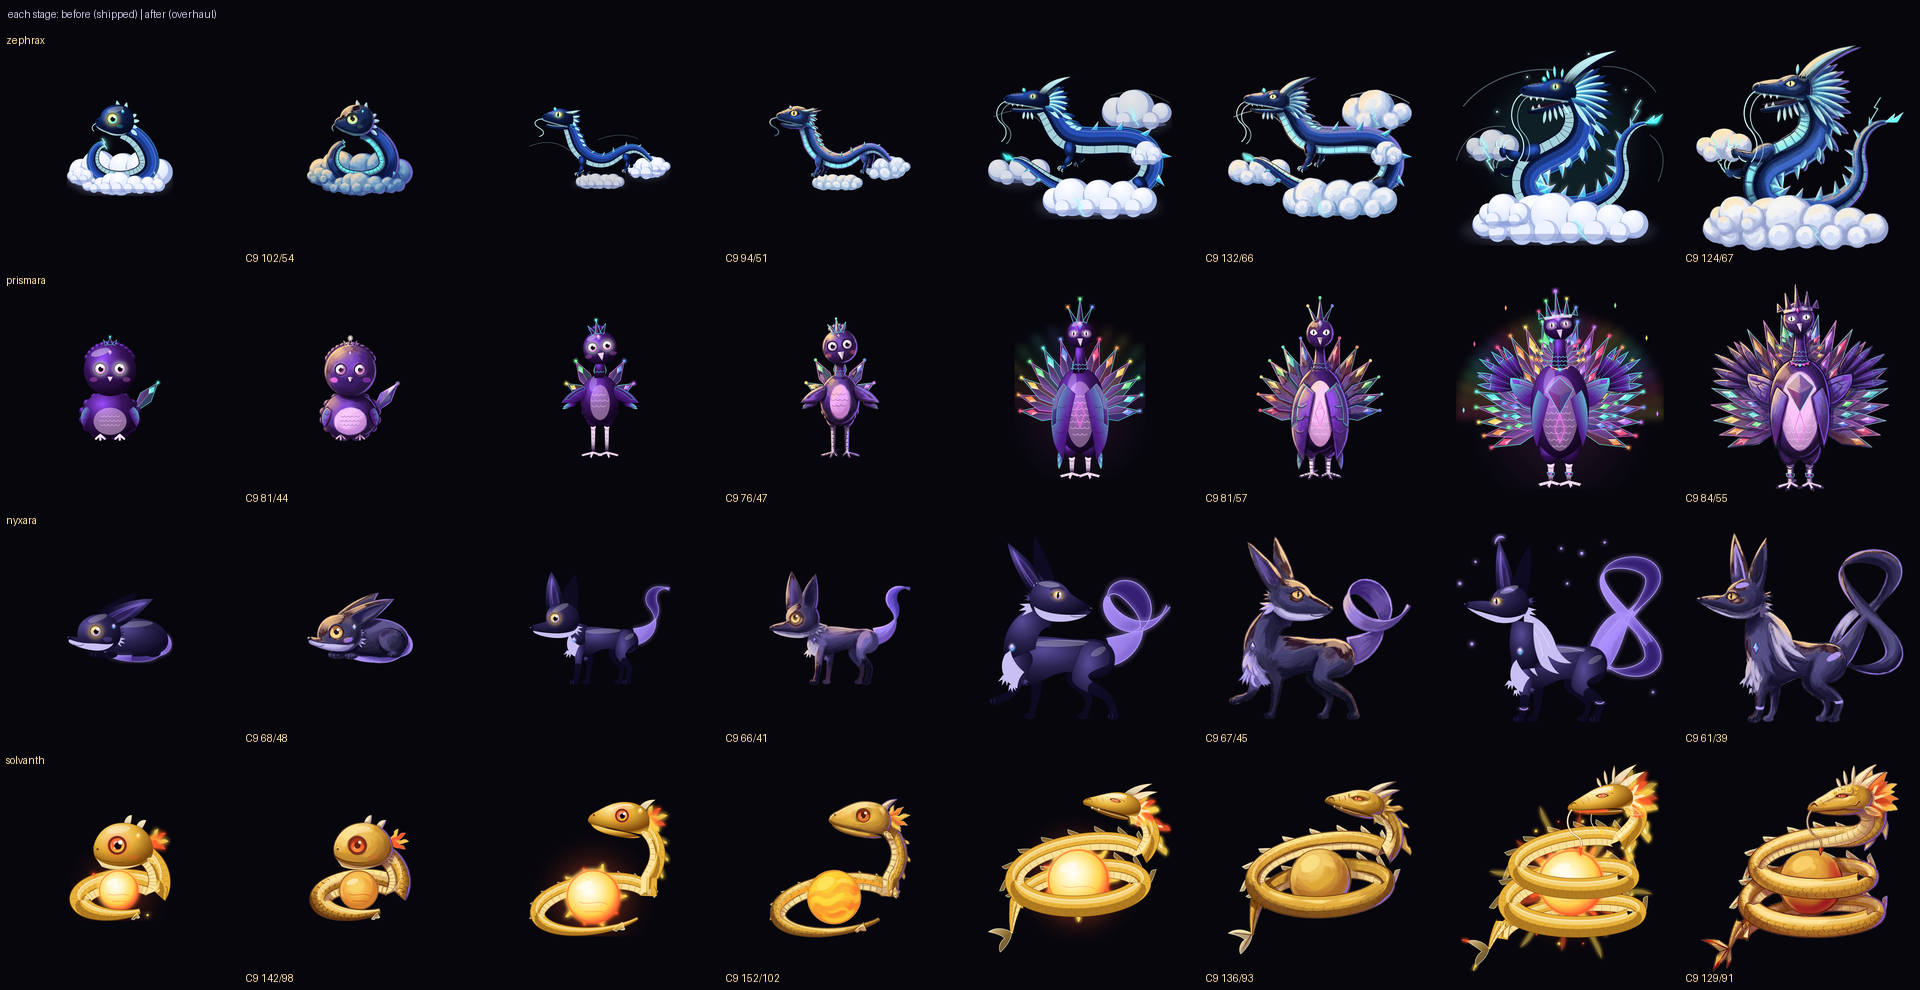
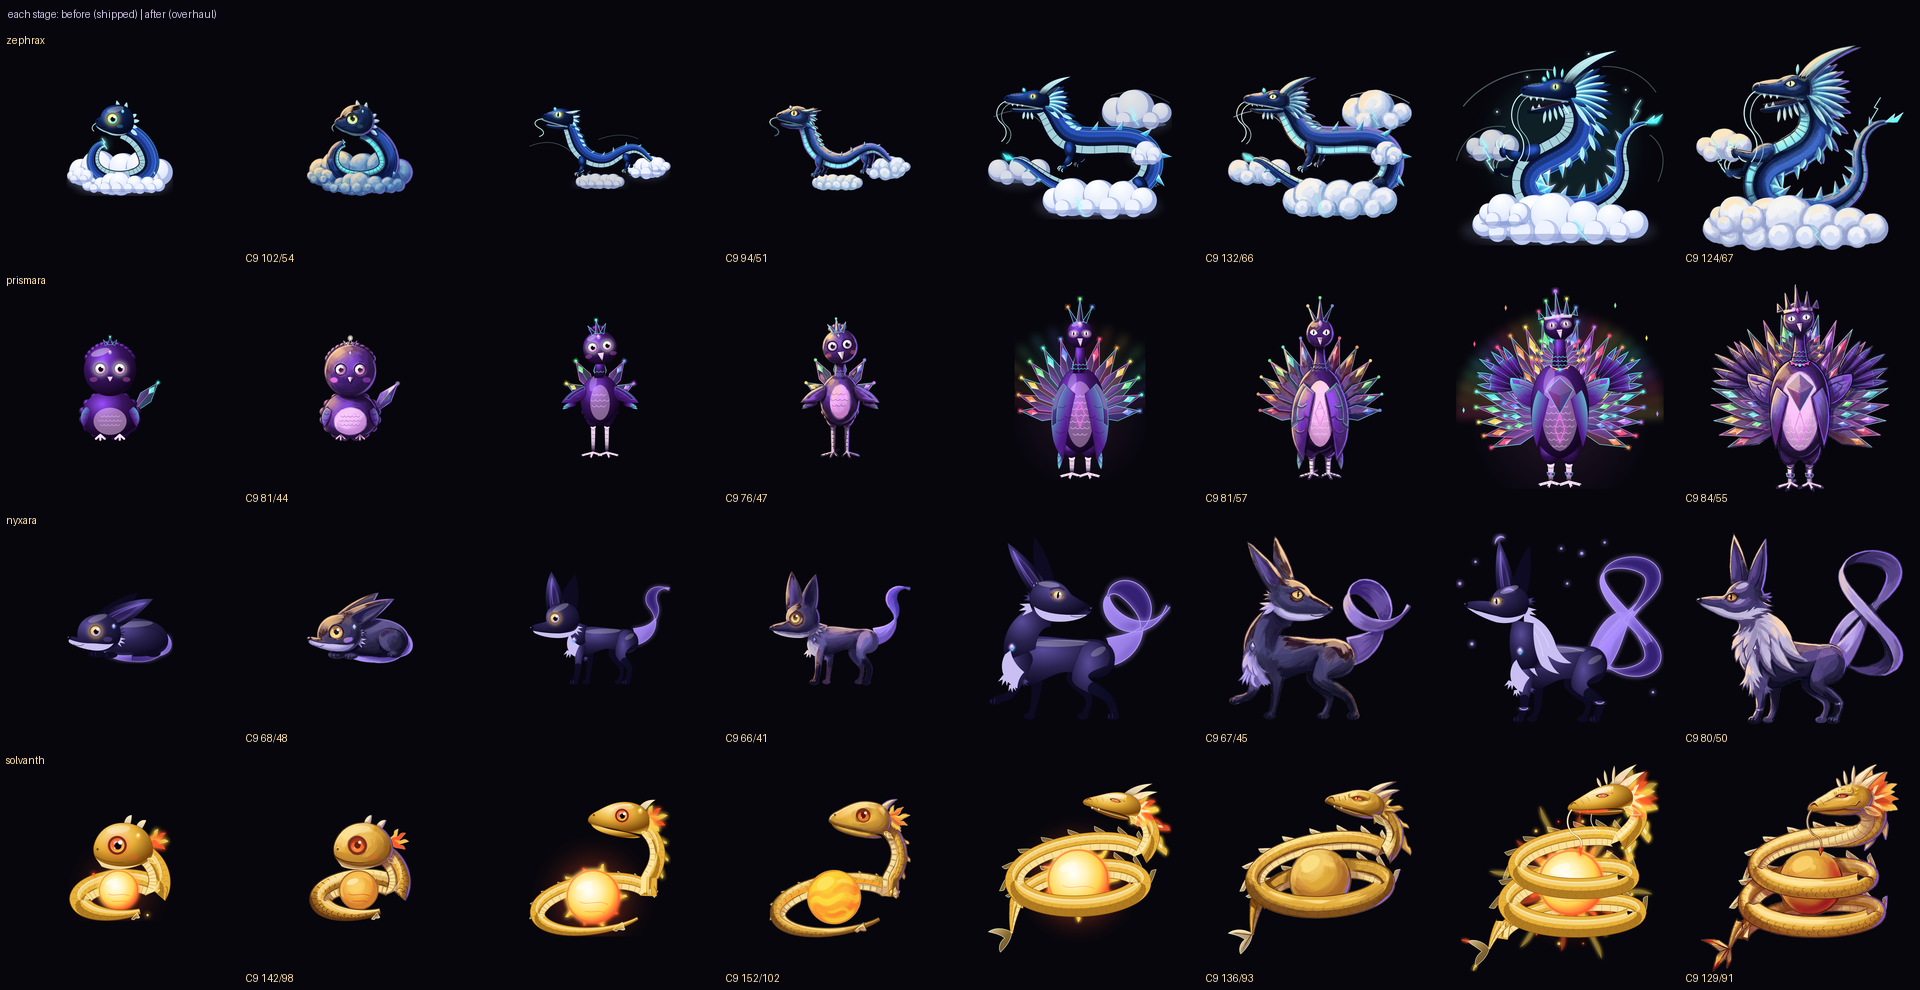
Overhaul acceptance record; Nyxara Ascended readability correction
- Nyxara 4 had read worse than its shipped drawing at 48 px (C9 72/44 -> 61/39); one
  correction (4 credits) restores the pale ruff and ribbon values: 80/50, now passing.
- docs/creature-studio/overhaul-acceptance.md: finished stages, site verification on
  design/eclipse-vigil-code @ ec8a06a, credits (524 for the overhaul), stock pairings,
  privacy results, remaining items. Names no classified species.
- overhaul-pilot.md marked superseded; its classified list now points to src/server/classified.

Claude-Session: https://claude.ai/code/session_015SgjiSM2vaoxJreyytzu3W

Changed region(s): [[0.875, 0.5455, 1.0, 0.7273]]

diff --git a/docs/creature-studio/overhaul-acceptance.md b/docs/creature-studio/overhaul-acceptance.md
@@ -1,0 +1,103 @@
+# Creature overhaul: acceptance record
+
+Status 2026-10-20. Verified on `design/eclipse-vigil-code` @ `ec8a06a` (local production build, desktop 1440 and phone 390). No merge to `main`, no production deploy.
+
+## 1. Finished species and stages
+
+**Public catalogue: 22 species × 4 stages = 88 of 88 finished and live on the branch.** Masters are in `art/creature-studio/overhaul/final/<id>/<n>-<stage>.png`; per-stage status (task, scale, C9) is in `overhaul/status.json`.
+
+| Rarity | Species (all four stages: Eggling, Hatchling, Evolved, Ascended) |
+|---|---|
+| Common | Mossling, Driftfin, Pallow, Glimmeray, Sproutwyrm, Frostkit |
+| Rare | Abyssal Vael, Stormquill, Duskwing, Cryovant, Emberlisk |
+| Epic | Neonyx, Aurorath, Zephrax, Prismara, Nyxara |
+| Legendary | Aurelion, Solvanth, Pyraurum, Aurelith, Velynx, Thalor |
+
+**Classified catalogue (4 Mythic, 2 Secret): 23 of 24 stages finished**, framed and checked (C13 framing 23/23 pass). They are held outside the repository; see §6.
+- One Mythic Hatchling is not generated. Its private reference upload was refused by the session's safety classifier and was not retried; it needs the owner's go-ahead (one 4-credit image).
+- The classified art is not on the site yet. The site's server-side classified path (a disclosed bundle after Developer Mode sign-in or a hatched egg) is in place, but per `ec8a06a` it serves vector art until the private store is connected.
+
+**Total finished artworks: 111 of 112.**
+
+Notes on identity:
+- Pallow Ascended keeps its original ring (anatomy).
+- Cryovant Ascended lost its rainbow rays, per canon W2 (no rays or halos behind artwork).
+- Velynx stays charcoal (owner: Shadow creatures are never taupe).
+
+## 2. On the site
+
+- `public/creatures/` and `src/data/creatureAssets.json` at `ec8a06a` are byte-identical to `npm run art:build` from these finals: a rebuild changes 0 files.
+- The site pipeline reports `88 of 112 stage assets supplied and valid · 24 missing (classified) · 0 invalid`. Its one warning: Pyraurum Ascended "little fine detail".
+- Collection sweep (`creature-studio` script, 494 checks, 1440 and 390):
+  - 28 plates: 22 painted, all loaded; 6 sealed silhouettes.
+  - Every public species' detail shows its four painted stage thumbnails.
+  - Selecting each stage shows that stage's painted image (loaded).
+  - No horizontal overflow, no failed `/creatures/` request, no page error.
+- Hatchery demo (1440 and 390):
+  - Grown creatures are painted.
+  - Hatch reveals show the painted Eggling.
+  - After +28 simulated days every creature image loads from `/creatures/<public id>/` only. No overflow, no errors.
+- Homepage Market Bond section: painted stages with the same ticker at every stage (site QA).
+
+## 3. Before and after
+
+Boards (each stage: shipped vector drawing | overhaul), regenerated from the final masters:
+- `art/creature-studio/overhaul/boards/batch-A.png`: Mossling, Aurelion, Frostkit, Driftfin, Pallow, Glimmeray
+- `batch-B.png`: Sproutwyrm, Abyssal Vael, Stormquill, Duskwing
+- `batch-C.png`: Cryovant, Emberlisk, Neonyx, Aurorath
+- `batch-D.png`: Zephrax, Prismara, Nyxara, Solvanth
+- `batch-E.png`: Pyraurum, Aurelith, Velynx, Thalor
+
+Classified before/after boards exist only privately.
+
+## 4. Credits (Runway, measured from balance deltas)
+
+| | Images | Credits |
+|---|---|---|
+| Public stages, first passes (nano-banana-2.1, 1K, 4 each) | 88 | 352 |
+| Public corrections (Mossling 3, Aurorath 4, Velynx 1–4, Nyxara 4 at 4 each; Solvanth 4 neck fix on nano-banana-pro at 20) | 8 | 48 |
+| Classified first passes | 23 | 92 |
+| Classified colour corrections | 8 | 32 |
+| Failed generations | 0 | 0 |
+| **Overhaul total** | **127** | **524** (balance 1,895 → 1,371) |
+
+- Per-image ledger: public stages in `overhaul/tasks.tsv`; classified stages in a private ledger (aggregate rows in `docs/canon/generation-ledger.md`).
+- Before this brief, 140 credits were spent on concepts and the Velynx prototype (2,035 → 1,895). Project total since the first generation: **664**.
+
+## 5. Stock pairings
+
+- `src/server/market/stockLinks.ts` is unchanged from `75ceb10`: 28 species → ticker mappings, identical.
+- In the UI, each of the 22 public details shows the same linked stock on all four stages, and the 22 pairings match the pre-integration build exactly.
+
+## 6. Privacy (Mythic and Secret)
+
+- `scripts/qa/classified-privacy.mjs`: **35/35** (public pages, JS, API and asset paths carry no classified name, epithet, lore or id; owner view does; no carry-over).
+- `scripts/qa/developer-mode.mjs`: **33/33**.
+- Extra checks:
+  - None of the 117 private classified files (finals, raws, references, uploads) exists as a git object in any fetched branch.
+  - `src/server/classified/art.json` never held an image or ciphertext in the branch history; the file is removed in `ec8a06a`.
+  - No classified id under `public/`, `art/` or in `creatureAssets.json`.
+  - No classified id and no inline image in the client bundle (`.next/static`).
+  - This branch's references, prompts, task ledger and status file contain no classified species.
+- Unit test `classifiedArt.test.ts` fails if any tracked file under `src/` embeds an image or a sealed stage.
+
+## 7. Build, tests, preview, remaining defects
+
+At `ec8a06a` (local):
+
+| Check | Result |
+|---|---|
+| `tsc --noEmit` | clean |
+| `vitest` | 379 passed, 3 skipped (Postgres integration, no database here) |
+| `next build` | compiled |
+| `scripts/qa/phoenix-site.mjs` | 202/202, including intro off: the homepage opens on the Phoenix still with no video request |
+| `scripts/qa/button-contrast.mjs` | 16/16 |
+
+Vercel built the preview of `ec8a06a` (status "success"). Its hostname is not reachable from the build container, so the checks above ran on an identical local production build.
+
+Remaining:
+1. One Mythic Hatchling not generated (owner go-ahead needed).
+2. Classified painted art not on the site until the private store is connected (owner action). Until then classified species show vector art. When it is connected, a species with a missing stage stays all-vector so no line mixes painted and vector.
+3. C9 48 px readability is below the threshold (median 70, p25 45) on 17 dark-palette stages: Aurorath 1, Duskwing 2–3, Emberlisk 1, 2, 4, Neonyx 1, 2, 4, Nyxara 1–3, Prismara 1 and Velynx 1–4. Each keeps its species palette. Each reads better than its shipped drawing at 48 px, except Velynx 4 (median 58 → 57, p25 38 → 42). Nyxara 4, which had regressed, was corrected (72/44 → 80/50).
+4. Pyraurum Ascended: pipeline warning "little fine detail" (warning only).
+5. Market data is off by default (no provider connected, by approval policy); stock panels say so honestly.

diff --git a/docs/creature-studio/overhaul-pilot.md b/docs/creature-studio/overhaul-pilot.md
@@ -1,6 +1,6 @@
 # Creature art overhaul: pricing check, pilot proposal, ledger, integration checklist
 
-Status 2026-10-19: **proposal only. Nothing generated, 0 credits spent under this brief.** Balance 1,895 (Runway `whoami`).
+Status 2026-10-19: proposal (historical). **Superseded:** the owner later approved the full overhaul; see `overhaul-acceptance.md` for the outcome.
 
 ## 1. Brief (owner, relayed 19 Oct)
 - **Scope:** 28 existing species × 4 stages = 112 final artworks.
@@ -75,7 +75,7 @@ Template, filled as work happens:
 ## 6. Website integration checklist (for the website session; no website code is edited here)
 1. **When to move files:** only when a species' full 4-stage line is approved. Move `art/creature-studio/<id>/<n>-<stage>.png` to `art/creatures/<id>/`, then run `npm run art:build` on `design/eclipse-vigil-code`.
 2. **File names:** `1-eggling.png`, `2-hatchling.png`, `3-evolved.png`, `4-ascended.png`. Each is 1024², transparent, and framed to C13.
-3. **Classified art (Mythic: astravex, orbelith, eventide, helivane; Secret: genesis, nullborn):**
+3. **Classified art (the four Mythic and two Secret species listed in `src/server/classified`):**
    - Never put it under `public/` or `public/creatures/<id>/`; a guessable URL leaks the species.
    - Serve it only through the website session's server-side classified path (non-guessable, access-checked).
    - Never list it in `src/data/creatureAssets.json` or anything else in the client bundle.
